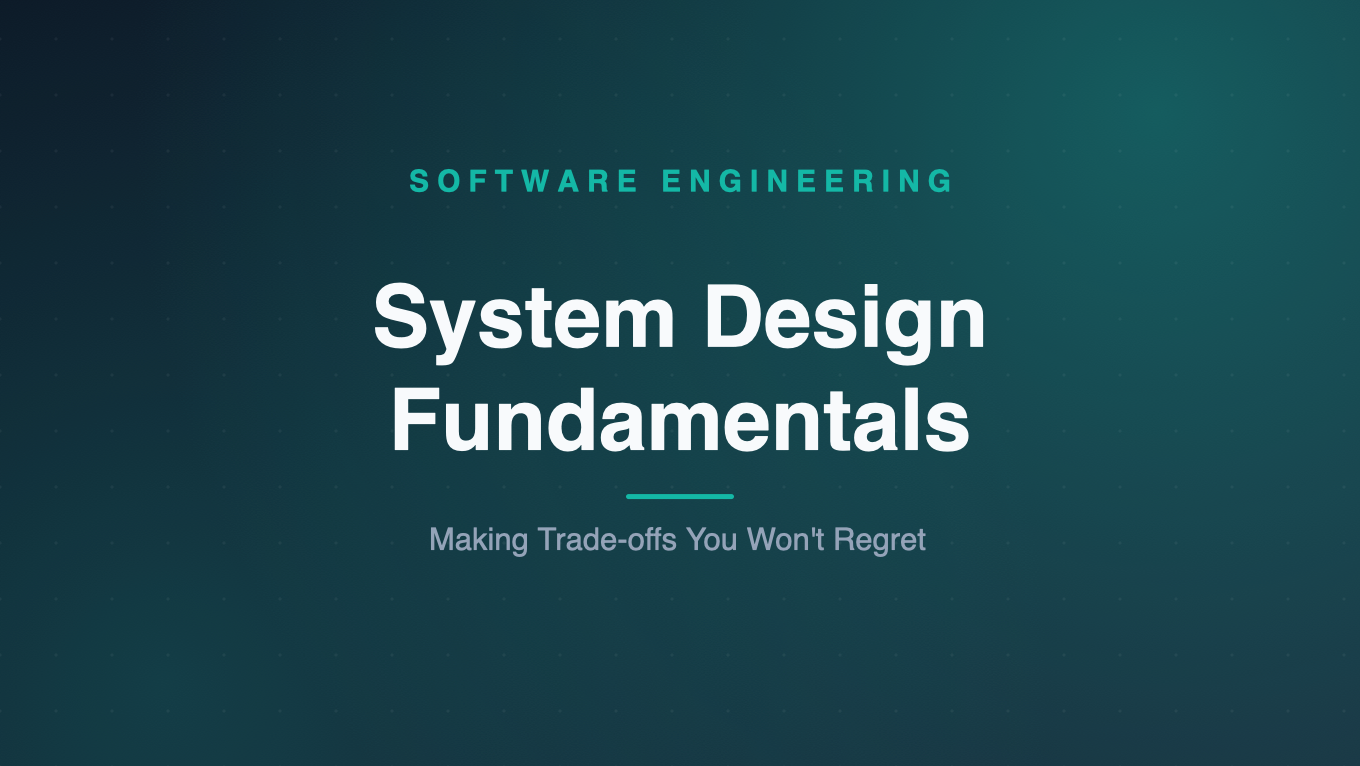
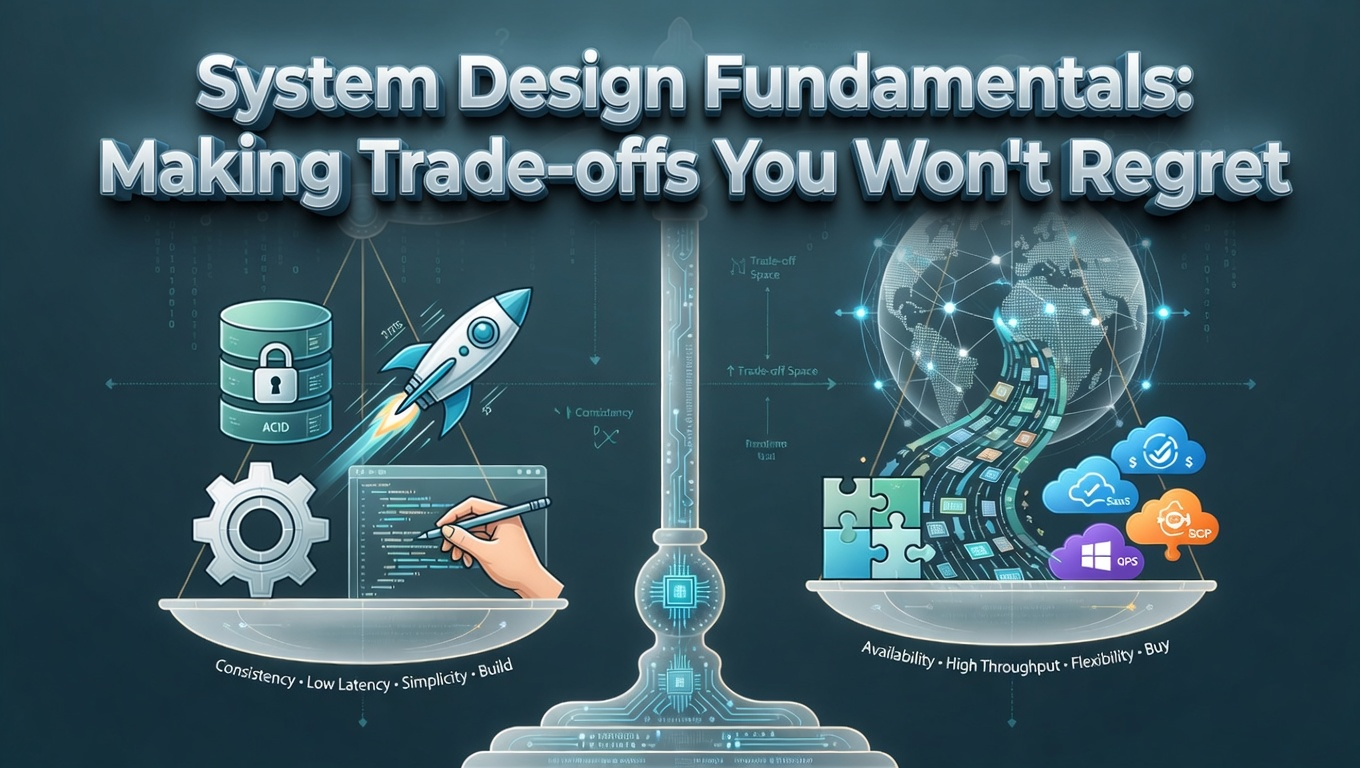
fix: update publication dates for multiple articles and enhance image assets
- Adjusted publication dates for "Context Engineering," "Recursive Self-Improvement," "What I'm Researching in AI Right Now," and "System Design Fundamentals" to reflect new timelines.
- Updated binary image files for "Threat Modeling for Engineers" and "System Design Fundamentals" to improve visual quality and consistency across the site.

diff --git a/content/ai/context-engineering.md b/content/ai/context-engineering.md
@@ -1,6 +1,6 @@
 ---
 title: "Context Engineering: The Discipline That Replaced Prompt Engineering"
-date: 2026-05-20T20:32:00+01:00
+date: 2026-05-17T09:00:00+01:00
 draft: false
 tags: ["ai", "context-engineering", "llm", "agent", "memory", "agentic-engineering"]
 description: "Prompt engineering was about wording a single request well. Context engineering is about curating everything in the model's window - retrieval, memory, tool results, and compaction - across a whole agent run. Here is why the discipline shifted, and the practices that separate reliable production systems from ones that quietly rot."

diff --git a/content/ai/recursive-self-improvement.md b/content/ai/recursive-self-improvement.md
@@ -1,6 +1,6 @@
 ---
 title: "Recursive Self-Improvement: Can AI Bootstrap Its Own Intelligence?"
-date: 2026-05-20T20:42:00+01:00
+date: 2026-05-17T12:00:00+01:00
 draft: false
 tags: ["ai", "agi", "safety", "alignment", "research", "superintelligence"]
 description: "Recursive self-improvement is the idea that an AI could rewrite itself into something smarter, then repeat - the engine behind every intelligence-explosion scenario. Here is what the theory actually claims, which pieces are already real in 2026, the bottlenecks that decide whether it runs away or fizzles, and why the honest answer is partly, slowly, and not the way the science fiction tells it."

diff --git a/content/ai/what-im-researching-in-ai-right-now.md b/content/ai/what-im-researching-in-ai-right-now.md
@@ -1,6 +1,6 @@
 ---
 title: "What I'm Researching in AI Right Now - And Where I'm Going Next"
-date: 2026-05-21T07:30:00+01:00
+date: 2026-05-19T07:30:00+01:00
 draft: false
 tags: ["ai", "agent", "research", "context-engineering", "reliability", "world-model"]
 description: "I treat my own learning like a research agenda - a small set of questions I am actively chasing rather than a reading list. Here are the AI areas I have been deep in, the ones I have decided to move into next, and the ones I am deliberately leaving on the watch list."

diff --git a/content/software-engineering/system-design-fundamentals.md b/content/software-engineering/system-design-fundamentals.md
@@ -1,6 +1,6 @@
 ---
 title: "System Design Fundamentals: Making Trade-offs You Won't Regret"
-date: 2026-05-20T12:00:00+01:00
+date: 2026-05-19T12:00:00+01:00
 draft: false
 tags: ["software-engineering", "system-design", "architecture"]
 description: "System design is not about knowing the right answer. It is about understanding the trade-offs well enough to choose deliberately. Here are the core axes every design decision moves along, a worked example, and why designing for scale you do not have is the most common self-inflicted wound in software."